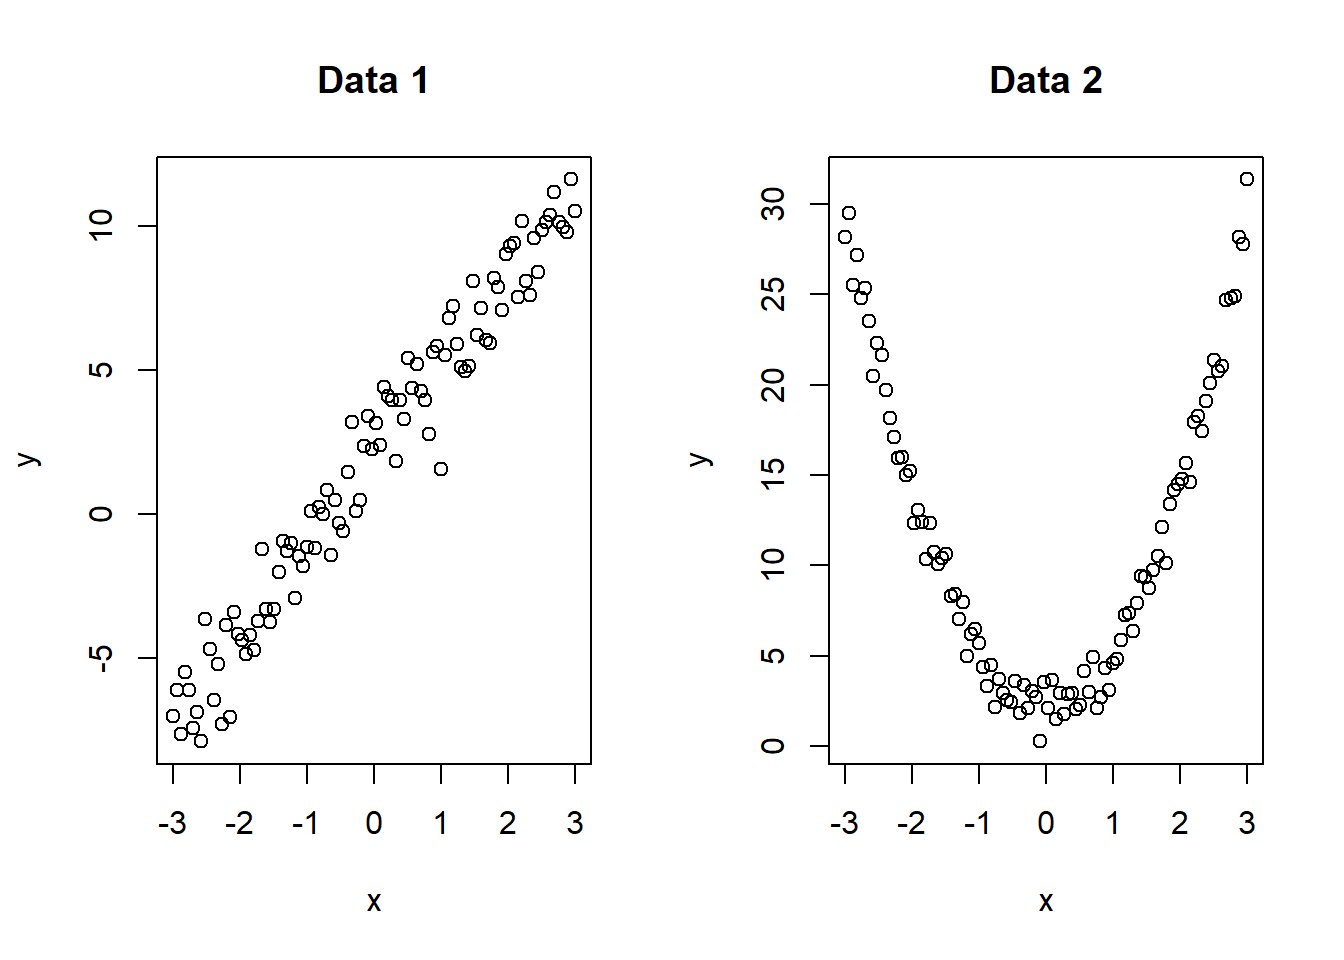
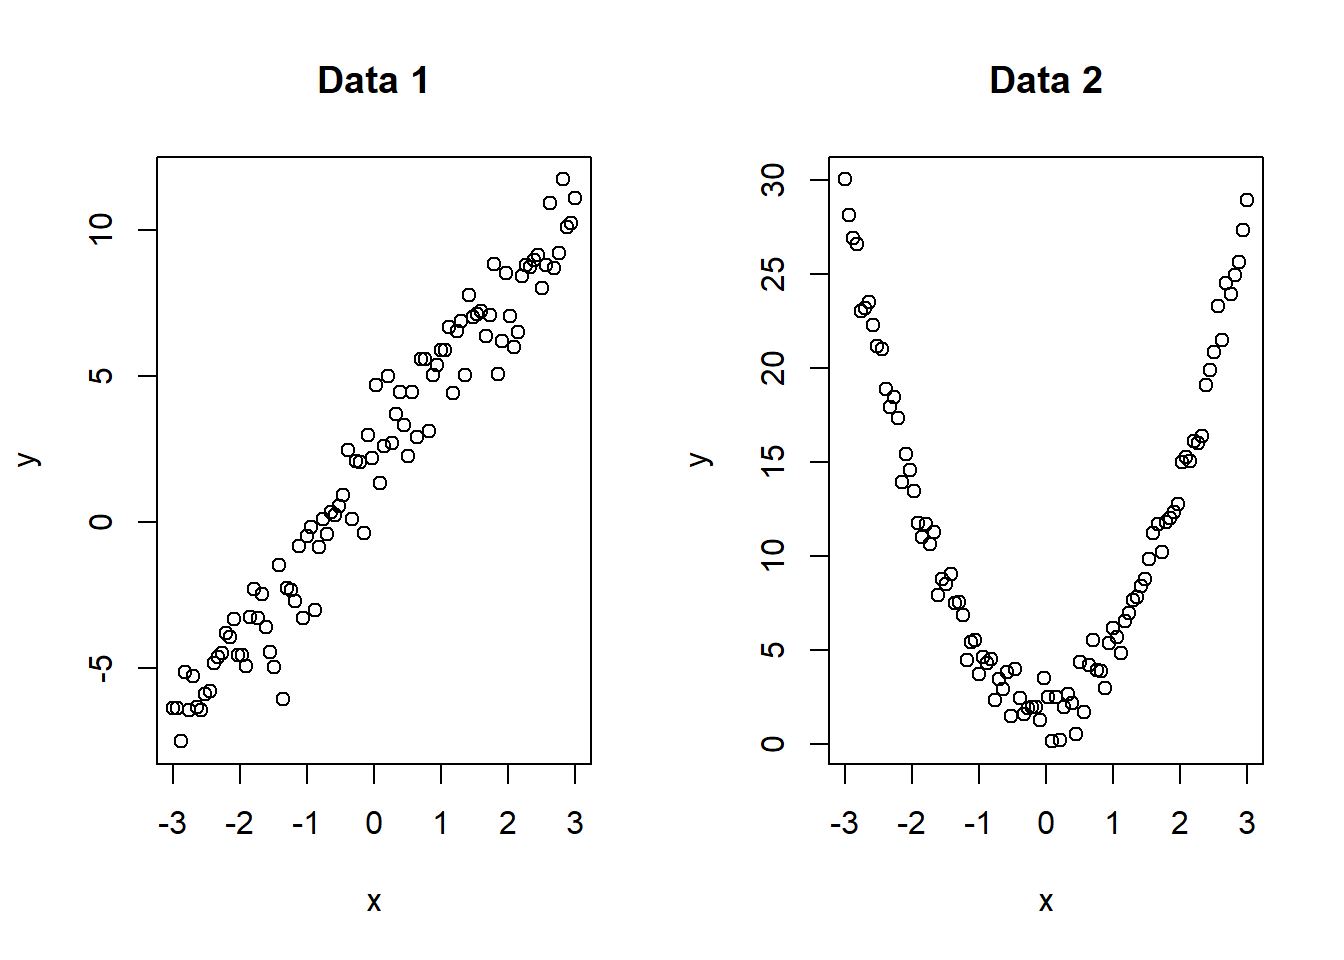
Built site for gh-pages

diff --git a/lectures/11-lecture.html b/lectures/11-lecture.html
@@ -436,9 +436,9 @@ Error in solve.default(XTX) :
 <pre><code>Analysis of Variance Table
 
 Response: y
-          Df  Sum Sq Mean Sq F value Pr(&gt;F)
-X1         1 0.03636 0.03636   0.109 0.7525
-Residuals  6 2.00185 0.33364               </code></pre>
+          Df Sum Sq Mean Sq F value Pr(&gt;F)
+X1         1 0.2053 0.20534   0.251 0.6342
+Residuals  6 4.9087 0.81812               </code></pre>
 </div>
 </div>
 </section>
@@ -457,8 +457,8 @@ Residuals  6 2.00185 0.33364               </code></pre>
 
 Response: y
           Df Sum Sq Mean Sq F value Pr(&gt;F)
-X2         1 0.0297 0.02970  0.0887 0.7759
-Residuals  6 2.0085 0.33475               </code></pre>
+X2         1 0.3844 0.38445  0.4877 0.5111
+Residuals  6 4.7296 0.78826               </code></pre>
 </div>
 </div>
 </section>
@@ -476,10 +476,10 @@ Residuals  6 2.0085 0.33475               </code></pre>
 <pre><code>Analysis of Variance Table
 
 Response: y
-          Df  Sum Sq Mean Sq F value Pr(&gt;F)
-X1         1 0.03636 0.03636  0.0922 0.7736
-X2         1 0.02970 0.02970  0.0753 0.7948
-Residuals  5 1.97215 0.39443               </code></pre>
+          Df Sum Sq Mean Sq F value Pr(&gt;F)
+X1         1 0.2053 0.20534  0.2269 0.6539
+X2         1 0.3844 0.38445  0.4249 0.5433
+Residuals  5 4.5242 0.90485               </code></pre>
 </div>
 </div>
 </section>
@@ -497,10 +497,10 @@ Residuals  5 1.97215 0.39443               </code></pre>
 <pre><code>Analysis of Variance Table
 
 Response: y
-          Df  Sum Sq Mean Sq F value Pr(&gt;F)
-X2         1 0.02970 0.02970  0.0753 0.7948
-X1         1 0.03636 0.03636  0.0922 0.7736
-Residuals  5 1.97215 0.39443               </code></pre>
+          Df Sum Sq Mean Sq F value Pr(&gt;F)
+X2         1 0.3844 0.38445  0.4249 0.5433
+X1         1 0.2053 0.20534  0.2269 0.6539
+Residuals  5 4.5242 0.90485               </code></pre>
 </div>
 </div>
 </section>
@@ -516,8 +516,8 @@ Residuals  5 1.97215 0.39443               </code></pre>
 </details>
 <div class="cell-output cell-output-stdout">
 <pre><code>              Estimate Std. Error    t value  Pr(&gt;|t|)
-(Intercept)  0.2578739  0.6457949  0.3993124 0.7034883
-X1          -0.1348425  0.4084366 -0.3301430 0.7525144</code></pre>
+(Intercept) -0.8075026  1.0112592 -0.7985119 0.4550098
+X1           0.3204216  0.6395765  0.5009902 0.6342231</code></pre>
 </div>
 <details class="code-fold">
 <summary>Code</summary>
@@ -525,8 +525,8 @@ X1          -0.1348425  0.4084366 -0.3301430 0.7525144</code></pre>
 </details>
 <div class="cell-output cell-output-stdout">
 <pre><code>              Estimate Std. Error    t value  Pr(&gt;|t|)
-(Intercept)  0.7258021  2.2594186  0.3212340 0.7589282
-X2          -0.1218531  0.4091163 -0.2978446 0.7758659</code></pre>
+(Intercept)  2.0845200  3.4671364  0.6012224 0.5696935
+X2          -0.4384346  0.6277996 -0.6983671 0.5110936</code></pre>
 </div>
 <details class="code-fold">
 <summary>Code</summary>
@@ -534,9 +534,9 @@ X2          -0.1218531  0.4091163 -0.2978446 0.7758659</code></pre>
 </details>
 <div class="cell-output cell-output-stdout">
 <pre><code>              Estimate Std. Error    t value  Pr(&gt;|t|)
-(Intercept)  0.9280658  2.5414144  0.3651769 0.7299178
-X1          -0.1348425  0.4440888 -0.3036386 0.7736322
-X2          -0.1218531  0.4440888 -0.2743890 0.7947614</code></pre>
+(Intercept)  1.6038876  3.8492740  0.4166728 0.6942014
+X1           0.3204216  0.6726253  0.4763746 0.6538968
+X2          -0.4384346  0.6726253 -0.6518259 0.5432838</code></pre>
 </div>
 </div>
 <ul>

diff --git a/assignments/index.html b/assignments/index.html
@@ -143,7 +143,7 @@ ul.task-list li input[type="checkbox"] {
 <li><a href="../assignments/assignment1.html">STAT210 Assignment 1: Due on Friday, October 9, 2026</a></li>
 <li><a href="../assignments/assignment2.html">STAT210 Assignment 2: Due on Monday, October 26, 2026</a></li>
 <li><a href="../assignments/assignment3.html">STAT210 Assignment 3: Due on Monday, November 16, 2026</a></li>
-<li><a href="">STAT210 Assignment 4: Due on Monday, December 7, 2026</a></li>
+<li><a href="../assignments/assignment4.html">STAT210 Assignment 4: Due on Monday, December 7, 2026</a></li>
 </ul>
 
 
